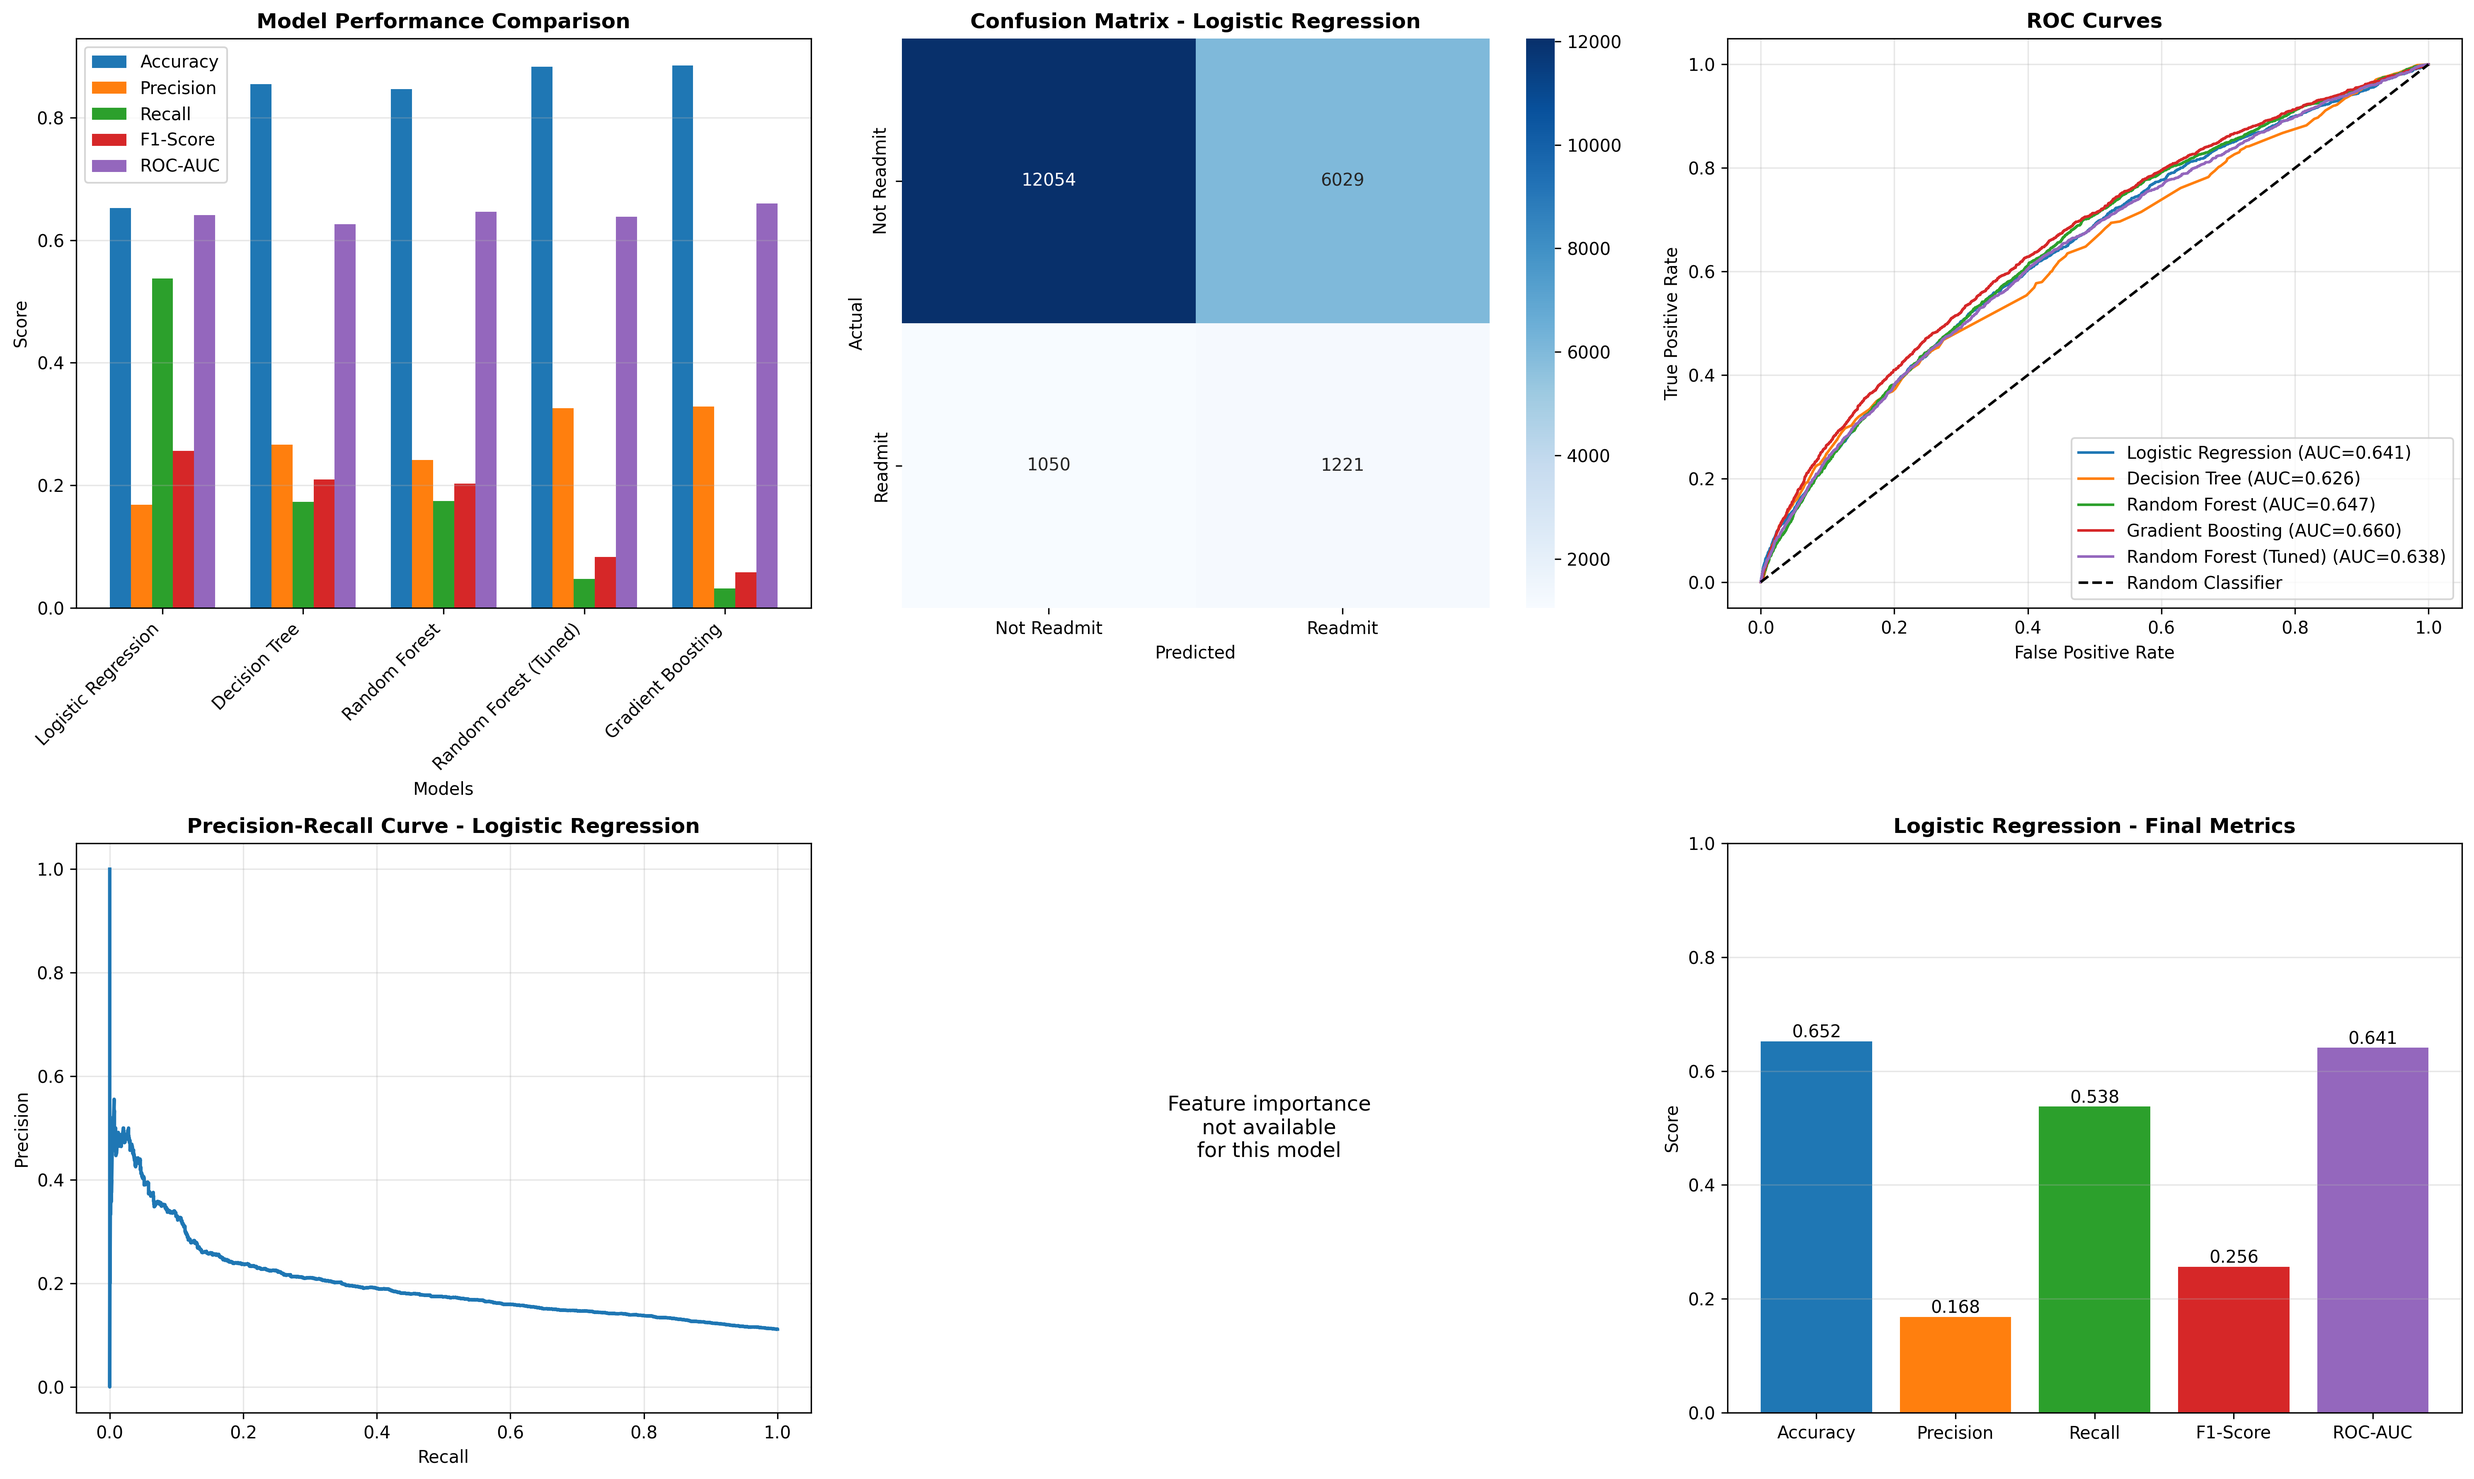
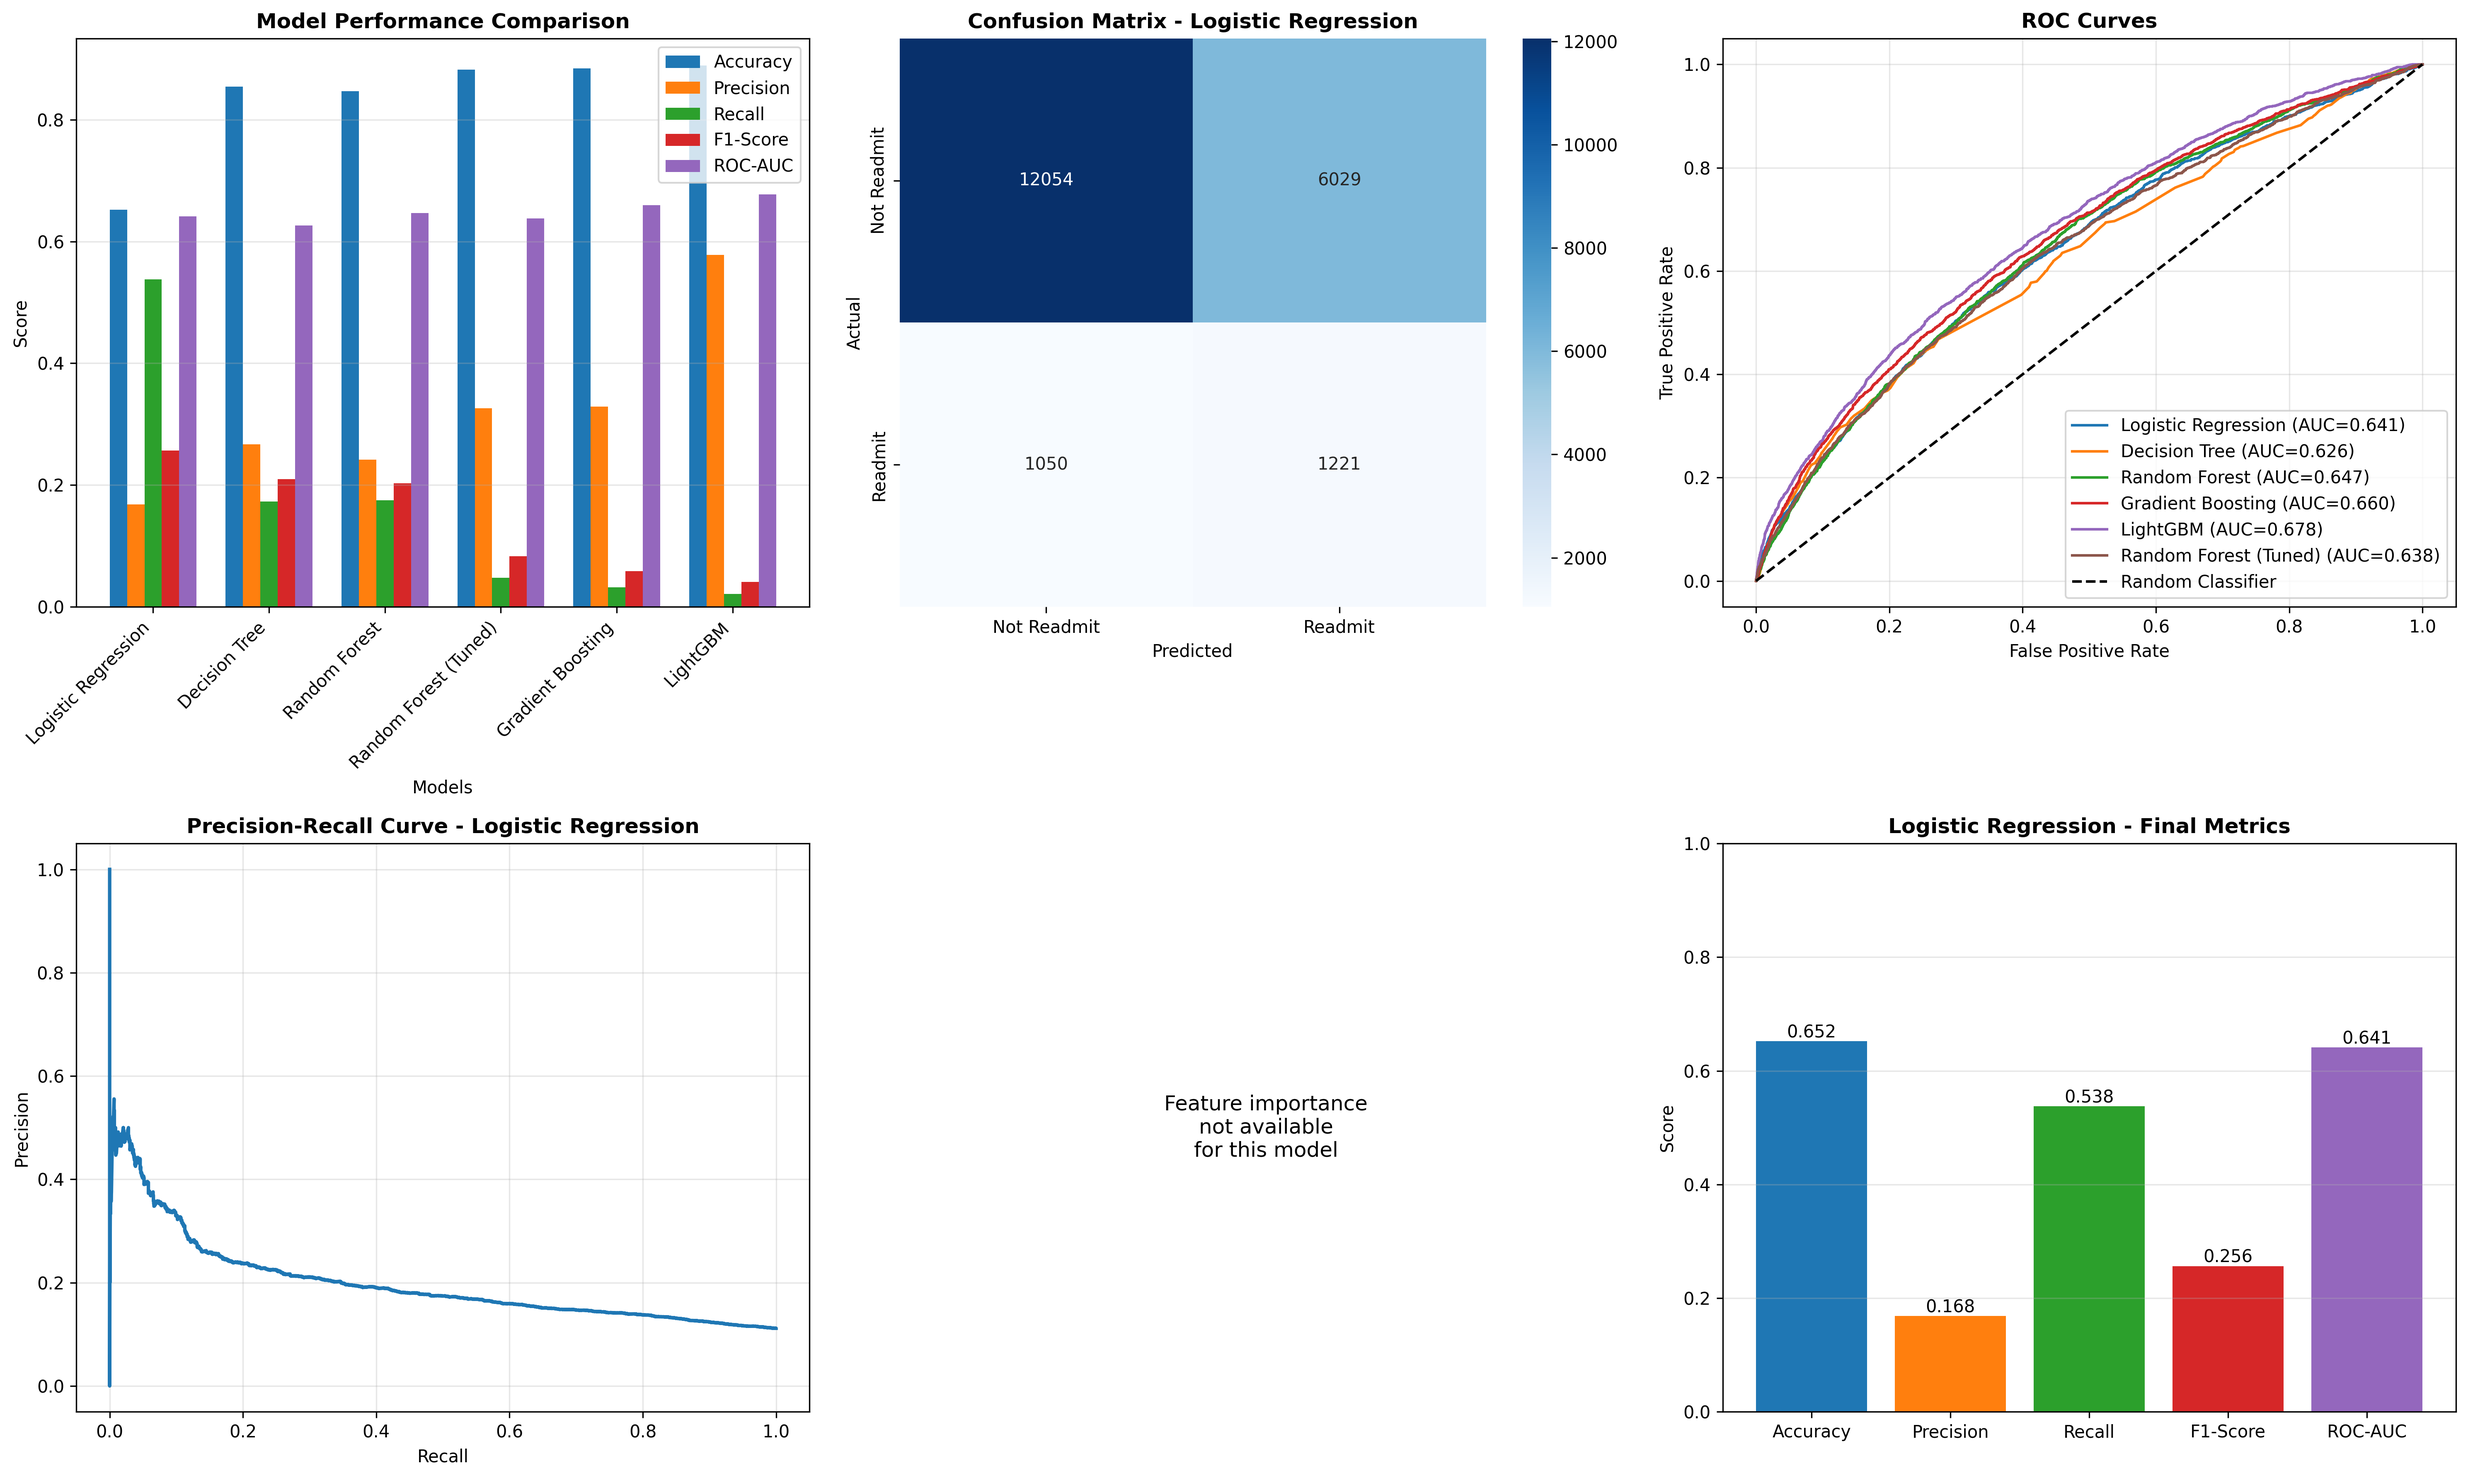
inital lgbm introduction results

diff --git a/src/05_manual_feature_selection_models.py b/src/05_manual_feature_selection_models.py
@@ -41,10 +41,12 @@ print("="*80)
 # 1. LOAD FINAL FEATURE SET
 # ============================================================================
 
+selected_features = ["diab_complication_categories", "diab_type", "diab_control", "diag_1_category", "diag_2_category" ,"diag_3_category", "admission_type_id","discharge_disposition_id"]
+
 print("\n[1] Loading final feature set from Step 4...")
 try:
-    X = pd.read_csv('../data/selected-features/04_X_features.csv')
-    y = pd.read_csv('../data/selected-features/04_y_target.csv').values.ravel()  # Convert to 1D array
+    X = pd.read_csv('../data/diabetes_cleaned_data/diabetes_cleaned_data.csv')[selected_features].values
+    y = pd.read_csv('../data/diabetes_cleaned_data/diabetes_cleaned_data.csv')[["readmitted_binary"]] # Convert to 1D array
     print(f"✓ Data loaded successfully")
     print(f"  - Features: {X.shape[1]}")
     print(f"  - Samples: {X.shape[0]}")
